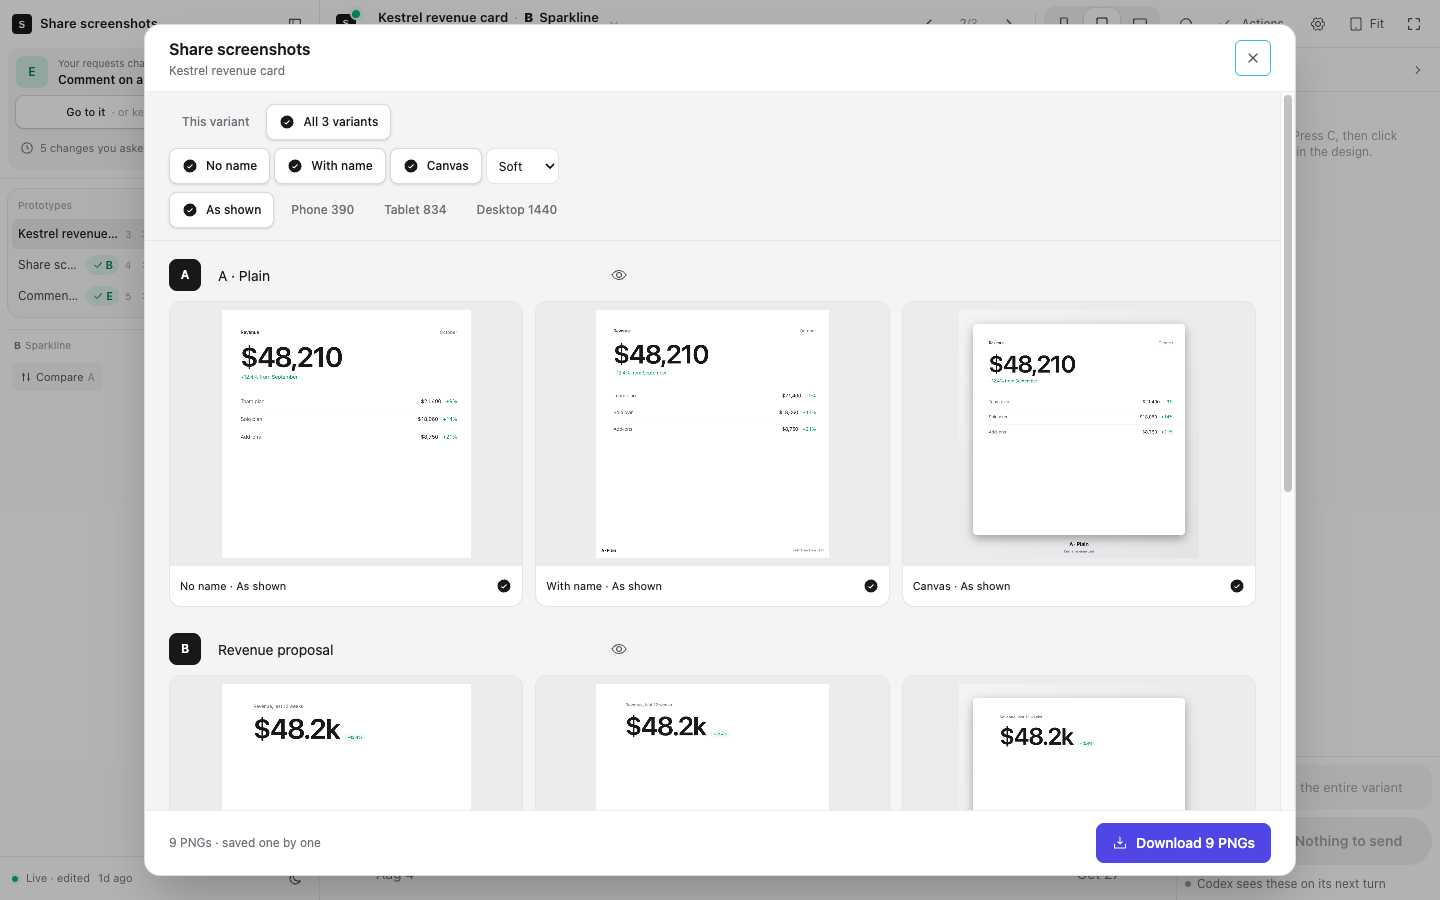
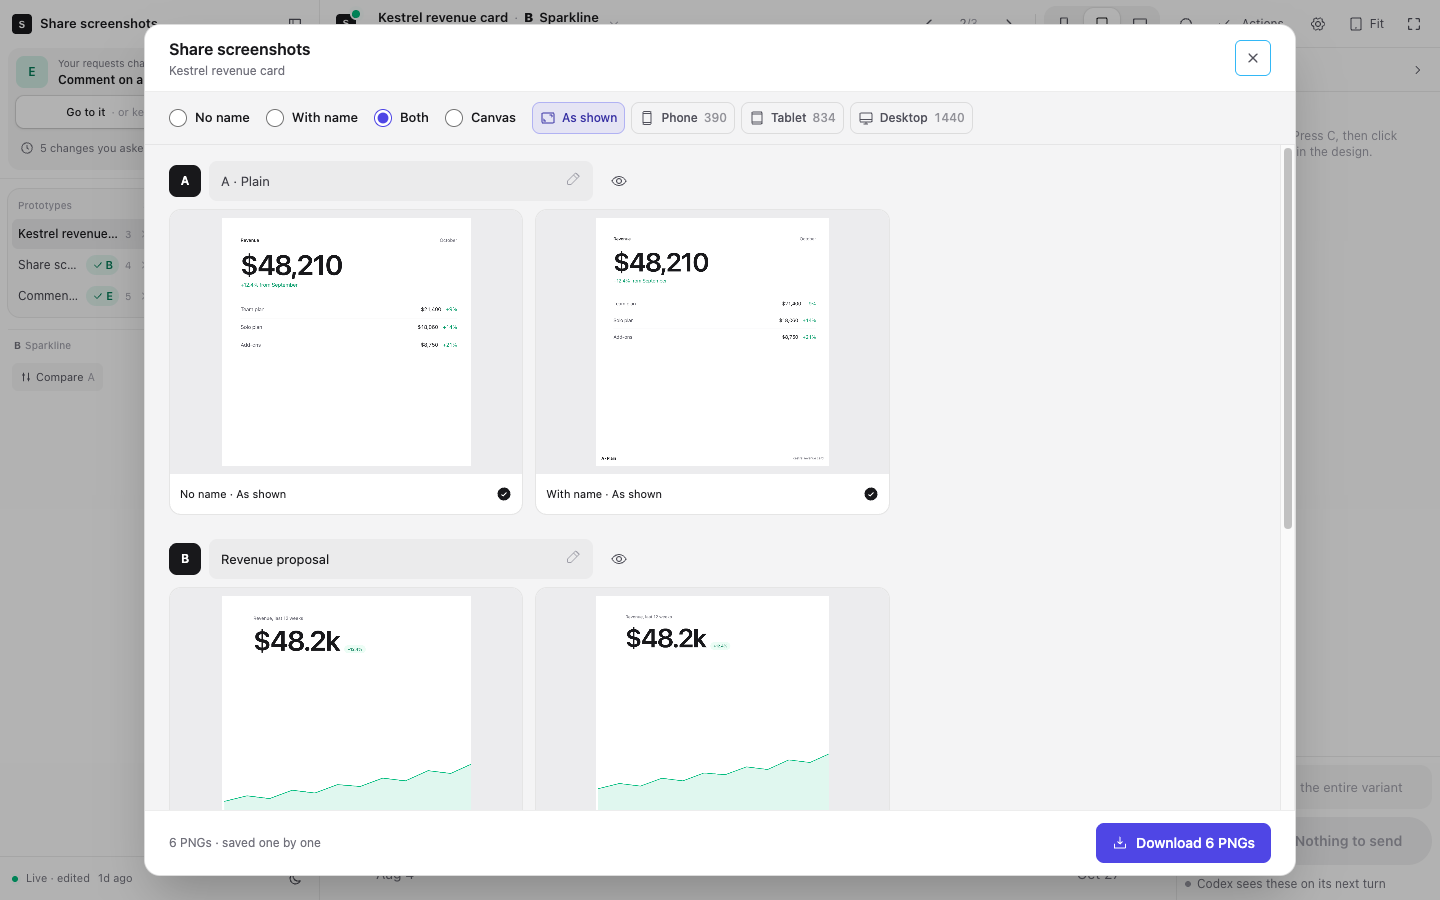
fix: restore planned screenshot board controls
Use radio style choices, icon size buttons, and segmented canvas backgrounds. Show every variant row while selecting and capturing the context-menu target first.

diff --git a/app/shell/share.ts b/app/shell/share.ts
@@ -11,6 +11,13 @@ type Props = { title: string; slug: string; variants: Subject[]; current: string
 const icon = (name: string) => h('span', { className: 'inline-flex', dangerouslySetInnerHTML: { __html: ic(name) } })
 const small = 'text-xs text-zinc-500 dark:text-zinc-400'
 const button = 'inline-flex min-h-9 items-center justify-center gap-2 rounded-lg px-3 text-xs font-medium hover:bg-zinc-900/5 disabled:opacity-40 dark:hover:bg-white/10'
+type Style = Look | 'both'
+const STYLES: { id: Style; label: string; looks: Look[] }[] = [
+  { id: 'bare', label: 'No name', looks: ['bare'] },
+  { id: 'named', label: 'With name', looks: ['named'] },
+  { id: 'both', label: 'Both', looks: ['bare', 'named'] },
+  { id: 'canvas', label: 'Canvas', looks: ['canvas'] },
+]
 const flip = <T,>(a: T[], id: T) => a.includes(id) ? a.filter(x => x !== id) : [...a, id]
 
 function Preview({ canvas }: { canvas: HTMLCanvasElement }) {
@@ -25,12 +32,12 @@ function Preview({ canvas }: { canvas: HTMLCanvasElement }) {
 }
 
 function Board(p: Props) {
-  const [scope, setScope] = useState(p.current ? 'current' : 'all')
-  const [looks, setLooks] = useState<Look[]>(['bare', 'named', 'canvas'])
+  const [style, setStyle] = useState<Style>('both')
+  const looks = STYLES.find(s => s.id === style)!.looks
   const [sizes, setSizes] = useState(['stage'])
   const [tone, setTone] = useState<Tone>('soft')
   const [names, setNames] = useState<Record<string, string>>({})
-  const [out, setOut] = useState<string[]>([]), [skipped, setSkipped] = useState<string[]>([])
+  const [out, setOut] = useState(() => p.current ? p.variants.filter(v => v.id !== p.current).map(v => v.id) : []), [skipped, setSkipped] = useState<string[]>([])
   const [raws, setRaws] = useState<Record<string, HTMLCanvasElement>>({})
   const [errors, setErrors] = useState<Record<string, string>>({})
   const [retry, setRetry] = useState(0)
@@ -40,7 +47,7 @@ function Board(p: Props) {
   const composed = useRef(new Map<string, { raw: HTMLCanvasElement; style: string; canvas: HTMLCanvasElement }>())
   const [files, setFiles] = useState<File[]>([])
   const popup = useRef<HTMLDivElement>(null)
-  const variants = p.variants.filter(v => scope === 'all' || v.id === p.current)
+  const variants = p.variants
   const options: ShotSize[] = [{ id: 'stage', label: 'As shown', ...p.size }, ...SIZES]
   const chosen = options.filter(s => sizes.includes(s.id))
   const nameOf = (v: Subject) => names[v.id] ?? `${v.id} · ${v.name}`
@@ -50,7 +57,9 @@ function Board(p: Props) {
     const controller = new AbortController()
     setRaws({}); setErrors({})
     void (async () => {
-      for (const v of variants) for (const s of chosen) {
+      // Make the context-menu target ready before preparing the other preview rows.
+      const order = [...variants].sort((a, b) => Number(b.id === p.current) - Number(a.id === p.current))
+      for (const v of order) for (const s of chosen) {
         if (controller.signal.aborted) return
         const k = keyOf(v, s), ck = `${v.hash}|${s.w}x${s.h}|${p.dark}|${retry}`
         try {
@@ -112,7 +121,6 @@ function Board(p: Props) {
     busy.current = true; setProgress(0)
     void navigator.share({ files, title: p.title }).catch(e => { if (live.current && e.name !== 'AbortError') setNotice(`Could not share: ${e.message}. Use Download PNGs.`) }).finally(() => { busy.current = false; if (live.current) setProgress(null) })
   }
-  const choice = (id: string, label: string, on: boolean, run: () => void, attr: string) => h('button', { key: id, type: 'button', [attr]: id, 'aria-pressed': on, onClick: run, className: `${button} border ${on ? 'border-black/15 bg-white text-zinc-900 shadow-sm dark:border-white/20 dark:bg-zinc-800 dark:text-white' : 'border-transparent text-zinc-500 dark:text-zinc-400'}` }, on ? icon('picked') : null, label)
   return h(Dialog.Root, { open: true, onOpenChange: (open: boolean) => { if (!open) close() } },
     h(Dialog.Portal, { container: uiBox() },
       h(Dialog.Backdrop, { className: 'fixed inset-0 z-[300] bg-black/30 dark:bg-black/60' }),
@@ -122,22 +130,27 @@ function Board(p: Props) {
         h('header', { className: 'flex shrink-0 items-center justify-between gap-3 border-b border-black/[.07] bg-white px-4 py-3 sm:px-6 dark:border-white/10 dark:bg-zinc-900' },
           h('div', { className: 'min-w-0' }, h(Dialog.Title, { className: 'font-semibold' }, 'Share screenshots'), h(Dialog.Description, { className: `mt-0.5 truncate ${small}` }, p.title)),
           h('button', { type: 'button', 'data-share-close': '', 'aria-label': 'Close screenshots', className: IB, onClick: close }, icon('x'))),
-        h('fieldset', { disabled: progress !== null, className: 'm-0 min-h-0 min-w-0 flex-1 overflow-y-auto border-0 p-0' },
-          h('div', { className: 'space-y-2 border-b border-black/[.06] px-4 py-3 sm:px-6 dark:border-white/10' },
-            h('div', { role: 'group', 'aria-label': 'Variants to export', className: 'flex flex-wrap gap-1' }, p.current ? choice('current', 'This variant', scope === 'current', () => setScope('current'), 'data-share-scope') : null, choice('all', `All ${p.variants.length} variants`, scope === 'all', () => setScope('all'), 'data-share-scope')),
-            h('div', { role: 'group', 'aria-label': 'Screenshot styles', className: 'flex flex-wrap gap-1' }, ...LOOKS.map(l => choice(l.id, l.label, looks.includes(l.id), () => setLooks(a => a.length === 1 && a.includes(l.id) ? a : flip(a, l.id)), 'data-share-look')),
-              looks.includes('canvas') ? h('select', { 'aria-label': 'Canvas background', value: tone, onChange: (e: { target: { value: string } }) => setTone(e.target.value as Tone), className: 'rounded-lg border border-black/10 bg-white px-2 text-xs dark:border-white/15 dark:bg-zinc-900' }, ...(['soft', 'dark', 'brand'] as Tone[]).map(t => h('option', { key: t, value: t }, t === 'brand' ? 'Indigo' : t === 'soft' ? 'Soft' : 'Dark'))) : null),
-            h('div', { role: 'group', 'aria-label': 'Screenshot sizes', className: 'flex flex-wrap gap-1' }, ...options.map(s => choice(s.id, `${s.label}${s.id === 'stage' ? '' : ` ${s.w}`}`, sizes.includes(s.id), () => setSizes(a => a.length === 1 && a.includes(s.id) ? a : flip(a, s.id)), 'data-share-size')))),
-          h('div', { className: 'space-y-6 px-4 py-4 sm:px-6' }, ...variants.map(v => h('section', { key: v.id, 'data-share-variant': v.id },
+        h('fieldset', { disabled: progress !== null, className: 'm-0 flex min-h-0 min-w-0 flex-1 flex-col overflow-hidden border-0 p-0' },
+          h('div', { className: 'flex shrink-0 flex-wrap items-center gap-x-4 gap-y-2 border-b border-black/[.06] px-4 py-2 sm:px-6 dark:border-white/10' },
+            h('div', { role: 'radiogroup', 'aria-label': 'Screenshot styles', className: 'flex shrink-0 flex-wrap items-center gap-x-4 gap-y-1' }, ...STYLES.map(s =>
+              h('label', { key: s.id, className: 'flex h-9 cursor-pointer items-center gap-2 text-[13px] font-medium' },
+                h('input', { type: 'radio', name: 'screenshot-style', value: s.id, 'data-share-look': s.id, checked: style === s.id, onChange: () => setStyle(s.id), className: 'size-[18px] accent-proto-primary' }), s.label))),
+            style === 'canvas' ? h('div', { role: 'group', 'aria-label': 'Canvas background', className: 'flex w-44 gap-0.5 rounded-xl bg-zinc-900/[.05] p-0.5 dark:bg-white/[.07]' },
+              ...(['soft', 'dark', 'brand'] as Tone[]).map(t => h('button', { key: t, type: 'button', 'data-share-tone': t, 'aria-pressed': tone === t, onClick: () => setTone(t), className: `h-8 min-w-0 flex-1 truncate rounded-[10px] px-2 text-xs font-medium ${tone === t ? 'bg-white text-zinc-900 shadow-sm dark:bg-zinc-700 dark:text-white' : 'text-zinc-600 hover:text-zinc-900 dark:text-zinc-400 dark:hover:text-white'}` }, t === 'brand' ? 'Indigo' : t === 'soft' ? 'Soft' : 'Dark'))) : null,
+            h('div', { role: 'group', 'aria-label': 'Screenshot sizes', className: 'flex flex-wrap gap-1.5' }, ...options.map(s => h('button', { key: s.id, type: 'button', 'data-share-size': s.id, 'aria-pressed': sizes.includes(s.id), onClick: () => setSizes(a => a.length === 1 && a.includes(s.id) ? a : flip(a, s.id)), className: `flex h-8 items-center gap-1.5 rounded-lg px-2 text-xs font-medium ring-1 ring-inset ${sizes.includes(s.id) ? 'bg-proto-primary-soft text-proto-primary-soft-fg ring-proto-primary-ring/40' : 'text-zinc-600 ring-black/10 dark:text-zinc-300 dark:ring-white/15'}` },
+              icon(`share-${s.id}`), s.label, s.id !== 'stage' ? h('span', { className: 'hidden tabular-nums opacity-60 sm:inline' }, s.w) : null)))),
+          h('div', { className: 'min-h-0 flex-1 space-y-6 overflow-y-auto px-4 py-4 sm:px-6' }, ...variants.map(v => h('section', { key: v.id, 'data-share-variant': v.id },
             h('div', { className: 'mb-2 flex items-center gap-2' }, h('span', { className: 'grid size-8 shrink-0 place-items-center rounded-lg bg-zinc-900 text-xs font-semibold text-white dark:bg-white dark:text-zinc-900' }, v.id),
-              h('input', { 'aria-label': `Screenshot name for ${v.id}`, value: nameOf(v), dir: 'auto', onChange: (e: { target: { value: string } }) => setNames(a => ({ ...a, [v.id]: e.target.value })), className: 'h-9 min-w-0 max-w-sm flex-1 rounded-lg border border-transparent bg-transparent px-2 text-sm hover:border-black/10 focus:border-sky-500 focus:outline-none dark:hover:border-white/15' }),
+              h('label', { className: 'relative block min-w-0 max-w-sm flex-1' },
+                h('input', { 'aria-label': `Screenshot name for ${v.id}`, value: names[v.id] ?? '', placeholder: `${v.id} · ${v.name}`, dir: 'auto', onChange: (e: { target: { value: string } }) => setNames(a => ({ ...a, [v.id]: e.target.value })), className: 'h-10 w-full rounded-lg bg-zinc-900/[.04] ps-3 pe-9 text-[13px] text-zinc-900 outline-none ring-1 ring-inset ring-transparent placeholder:text-zinc-700 focus:bg-white focus:ring-proto-primary-ring dark:bg-white/[.06] dark:text-white dark:placeholder:text-zinc-300 dark:focus:bg-zinc-800' }),
+                h('span', { className: 'pointer-events-none absolute end-3 top-1/2 -translate-y-1/2 text-zinc-400' }, icon('share-pencil'))),
               h('button', { type: 'button', 'aria-label': `${out.includes(v.id) ? 'Include' : 'Leave out'} variant ${v.id}`, 'aria-pressed': !out.includes(v.id), onClick: () => setOut(a => flip(a, v.id)), className: IB }, icon(out.includes(v.id) ? 'eyeoff' : 'eye'))),
             h('div', { className: 'grid grid-cols-2 gap-3 sm:grid-cols-3' }, ...tiles.filter(t => t.v.id === v.id).map(t => h('button', { key: t.key, type: 'button', 'data-share-tile': t.key, disabled: out.includes(v.id), 'aria-pressed': selected(t), 'aria-label': `${v.id}, ${t.s.label}, ${LOOKS.find(l => l.id === t.look)!.label}`, onClick: () => setSkipped(a => flip(a, t.key)), className: `overflow-hidden rounded-xl border border-black/10 bg-white text-start dark:border-white/10 dark:bg-zinc-900 ${selected(t) ? '' : 'opacity-40 grayscale'}` },
               h('span', { className: 'flex aspect-[4/3] items-center justify-center bg-zinc-200/70 p-2 dark:bg-zinc-800' }, t.canvas ? h(Preview, { canvas: t.canvas }) : h('span', { className: 'px-2 text-center text-xs text-zinc-500' }, errors[keyOf(v, t.s)] ?? 'Preparing screenshot…')),
               h('span', { className: 'flex min-h-10 items-center justify-between gap-2 px-2.5 text-[11px]' }, h('span', null, `${LOOKS.find(l => l.id === t.look)!.label} · ${t.s.label}`), selected(t) ? icon('picked') : null)))))))),
         h('footer', { className: 'shrink-0 space-y-2 border-t border-black/[.07] bg-white px-4 py-3 pb-[max(.75rem,env(safe-area-inset-bottom))] sm:px-6 dark:border-white/10 dark:bg-zinc-900' },
           h('div', { className: 'flex flex-wrap items-center justify-between gap-2' },
-            h('p', { className: small, role: 'status' }, progress !== null ? `${progress} of ${jobs.length} PNGs` : notice || `${jobs.length} PNGs · saved one by one`),
+            h('p', { className: small, role: 'status' }, progress !== null ? `${progress} of ${jobs.length} PNGs` : notice || `${jobs.length} PNG${jobs.length === 1 ? '' : 's'} · saved one by one`),
             h('div', { className: 'flex gap-2' }, Object.keys(errors).length ? h('button', { type: 'button', disabled: progress !== null, className: button, onClick: () => { cache.current = {}; setRetry(n => n + 1) } }, 'Retry captures') : null,
               progress !== null ? h('button', { type: 'button', className: button, onClick: () => { stop.current = true } }, 'Stop') : null,
               files.length && navigator.canShare?.({ files }) ? h('button', { type: 'button', disabled: progress !== null, className: button, onClick: shareFiles }, icon('share'), 'Share files') : null,

diff --git a/app/shell/ui.ts b/app/shell/ui.ts
@@ -11,8 +11,13 @@ import tweaksIcon from '@phosphor-icons/core/assets/regular/sliders-horizontal.s
 import share from '@phosphor-icons/core/assets/regular/export.svg?raw'
 import download from '@phosphor-icons/core/assets/regular/download-simple.svg?raw'
 import eyeoff from '@phosphor-icons/core/assets/regular/eye-slash.svg?raw'
+import shotStage from '@phosphor-icons/core/assets/regular/frame-corners.svg?raw'
+import shotPhone from '@phosphor-icons/core/assets/regular/device-mobile.svg?raw'
+import shotTablet from '@phosphor-icons/core/assets/regular/device-tablet.svg?raw'
+import shotDesktop from '@phosphor-icons/core/assets/regular/desktop.svg?raw'
+import shotPencil from '@phosphor-icons/core/assets/regular/pencil-simple.svg?raw'
 /** Icons that are Phosphor's own files, never drawn here: the ⋯ and the pick's check circle. */
-const PHOSPHOR: Record<string, string> = { share, download, eyeoff, dots: dotsThree, pick: checkCircle, picked: checkCircleFill, settings, keyboard, eye, tweaks: tweaksIcon }
+const PHOSPHOR: Record<string, string> = { 'share-stage': shotStage, 'share-phone': shotPhone, 'share-tablet': shotTablet, 'share-desktop': shotDesktop, 'share-pencil': shotPencil, share, download, eyeoff, dots: dotsThree, pick: checkCircle, picked: checkCircleFill, settings, keyboard, eye, tweaks: tweaksIcon }
 
 const PATHS: Record<string, string> = {
   ...SIZE_PATHS,

diff --git a/app/shell/shell.css b/app/shell/shell.css
@@ -63,7 +63,7 @@ body { margin: 0; }
 :root { --proto-focus: oklch(68.5% 0.169 237.323 / 0.8); }
 .dark { --proto-focus: oklch(74.6% 0.16 232.661 / 0.8); }
 @layer base {
-  :where(#app, [data-proto-ui]) :where(button, a[href], summary, input[type="checkbox"], [tabindex]:not([tabindex="-1"])):focus-visible:not(:where([data-mount] *)) {
+  :where(#app, [data-proto-ui]) :where(button, a[href], summary, input[type="checkbox"], input[type="radio"], [tabindex]:not([tabindex="-1"])):focus-visible:not(:where([data-mount] *)) {
     outline: 1.5px solid var(--proto-focus);
     outline-offset: -1.5px;
   }
